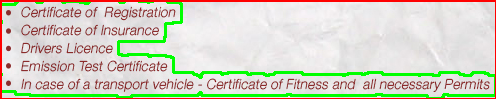
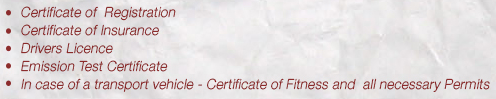
New file added & modified '17-03-2018'

Changed region(s): [[0.0, 0.0, 1.0, 1.0]]

diff --git a/IP OpenCV codes/Machine Printed/Driving_Document.py b/IP OpenCV codes/Machine Printed/Driving_Document.py
@@ -71,6 +71,22 @@ def img_show(*args):
     cv2.waitKey(0)
     cv2.destroyAllWindows()
 
+def horizontal_dilation(img,iterations,kernel_size):
+    #kernel = np.ones((kernel_size, kernel_size), np.uint8)
+    '''ones = np.array([0, 1, 0])
+    zeroes = np.array([0, 1, 0])
+    #kernel = np.uint8(ones)
+    kernel= np.array([0, 1, 0])
+    # ones=np.ones(3,np.uint8)
+    # zeroes=np.zeros(3,np.uint8)
+    np.concatenate((kernel, ones), axis=1)zzz
+    np.concatenate((kernel, zeroes), axis=1)'''
+    kernel= np.array([[0,0,0],[1,1,1],[0,0,0]])
+
+    dilated = cv2.dilate(img, kernel, iterations=iterations)
+    cv2.imwrite(new_path + "dilated.png", dilated)
+    return dilated
+
 def get_blocks(img_path):
     ###########################CANNY EDGE DETECTION ###################################
     print(img_path)
@@ -78,7 +94,7 @@ def get_blocks(img_path):
     #print(img.dim)
     edges = cv2.Canny(img, 100, 200)
     cv2.imwrite(new_path + 'canny.png', edges)
-    cv2.imshow('Edges',edges)
+    #cv2.imshow('Edges',edges)
     ##############################DEFINING CONTOURS####################################
     conditioned = getMorph(edges, 3, 5, False)
     final= conditioned
@@ -86,22 +102,22 @@ def get_blocks(img_path):
     [a, contours, c] = cv2.findContours(final, cv2.RETR_EXTERNAL, cv2.CHAIN_APPROX_SIMPLE)
     print("No of text blocks detected are blocks :"+str(len(contours)))
 
-    cv2.drawContours(img, contours, -1, (0, 255, 0), 2)
+    #cv2.drawContours(img, contours, -1, (0, 255, 0), 2)
     it=1
     for npaContour in contours:
         [intX, intY, intW, intH] = cv2.boundingRect(npaContour)
-        cv2.rectangle(img,(intX, intY),(intX+intW,intY+intH),(0, 0, 255),2)
+        #cv2.rectangle(img,(intX, intY),(intX+intW,intY+intH),(0, 0, 255),2)
 
         imgROI = np.asarray(img[intY:intY+intH, intX:intX+intW])
-        cv2.imshow('block',imgROI)
-        intChar = cv2.waitKey(0)
+        #cv2.imshow('block',imgROI)
+        #intChar = cv2.waitKey(0)
         if not os.path.exists(new_path+'block'+str(it)+'//'):
             os.makedirs(new_path+'block'+str(it)+'//')
         cv2.imwrite(new_path+'block'+str(it)+'//'+'block.png', imgROI)
         it+=1
 
-    cv2.waitKey(0)
-    cv2.destroyAllWindows()
+    #cv2.waitKey(0)
+    #cv2.destroyAllWindows()
     ###################################################################################
 
     #cv2.imwrite(src_path+ex_fl+'final.png',final)
@@ -111,50 +127,48 @@ def get_blocks(img_path):
     return len(contours)
 
 def get_lines(img_path):
-    img=cv2.imread(img_path)
     ###########################CANNY EDGE DETECTION ###################################
     img = cv2.imread(img_path)
     edges = cv2.Canny(img, 100, 200)
-    cv2.imwrite(src_path+ex_fl +'block'+ str(block_no)+ '//canny.png', edges)
-    #cv2.imshow('Edges',edges)
+    cv2.imwrite(new_path + 'canny.png', edges)
+    cv2.imshow('Edges',edges)
     ##############################DEFINING CONTOURS####################################
-    conditioned = getMorph(edges, 3, 5, False)
+    #conditioned = getMorph(edges, 1, 3, False)
+    conditioned= horizontal_dilation(edges,9,9)
+
     final= conditioned
     #[a, contours, c] = cv2.findContours(final, cv2.RETR_TREE, cv2.CHAIN_APPROX_SIMPLE)
     [a, contours, c] = cv2.findContours(final, cv2.RETR_EXTERNAL, cv2.CHAIN_APPROX_SIMPLE)
-    print('This block have'+ str(len(contours)) +'lines')
-
+    print("No of text lines detected from this block are:"+str(len(contours)))
     #cv2.drawContours(img, contours, -1, (0, 255, 0), 2)
     it=1
     for npaContour in contours:
         [intX, intY, intW, intH] = cv2.boundingRect(npaContour)
-        cv2.rectangle(img,(intX, intY),(intX+intW,intY+intH),(0, 0, 255),2)
+        #cv2.rectangle(img,(intX, intY),(intX+intW,intY+intH),(0, 0, 255),2)
 
         imgROI = np.asarray(img[intY:intY+intH, intX:intX+intW])
         cv2.imshow('line',imgROI)
         intChar = cv2.waitKey(0)
-        line_path = src_path +ex_fl + 'block'+ str(block_no)+ '//line' + str(it) + '//'
-        if not os.path.exists(line_path):
-            os.makedirs(line_path)
-        cv2.imwrite(line_path + 'line' + str(it) + '.png', imgROI)
+        if not os.path.exists(new_path+'line'+str(it)+'//'):
+            os.makedirs(new_path+'line'+str(it)+'//')
+        cv2.imwrite(new_path+'line'+str(it)+'//'+'line.png', imgROI)
         it+=1
 
-    #cv2.waitKey(0)
-    #cv2.destroyAllWindows()
+    cv2.waitKey(0)
+    cv2.destroyAllWindows()
     ###################################################################################
 
-    #cv2.imwrite(src_path+ex_fl+'final.png',final)
     #result= pytesseract.image_to_string(Image.open(src_path+ex_fl+'final.png'),lang='spa', config=tessdata_dir_config)
     #os.remove(temp)
     return len(contours)
 
 new_path= src_path+"Driving Document//"
-print('-----Start recognize text blocks from image -----')
+print('\n-----Start recognize text blocks from image -----')
 ltn= get_blocks(new_path+"Driving_Document.png")
 print("-------DONE-------\n\n")
 
-'''print('-----Start recognize Lines from block -----')
+print('-----Start recognize Lines from block -----')
 for it in range(1,ltn+1):
-    block_path = "Driving Document//block"+str(it)+'//'
-    get_lines(new_path+str(it)+'.png')
-print("-------Lines Extracted-------\n\n")'''
+    new_path = src_path +"Driving Document//block"+str(it)+'//'
+    get_lines(new_path+'block.png')
+print("-------Lines Extracted-------\n\n")
